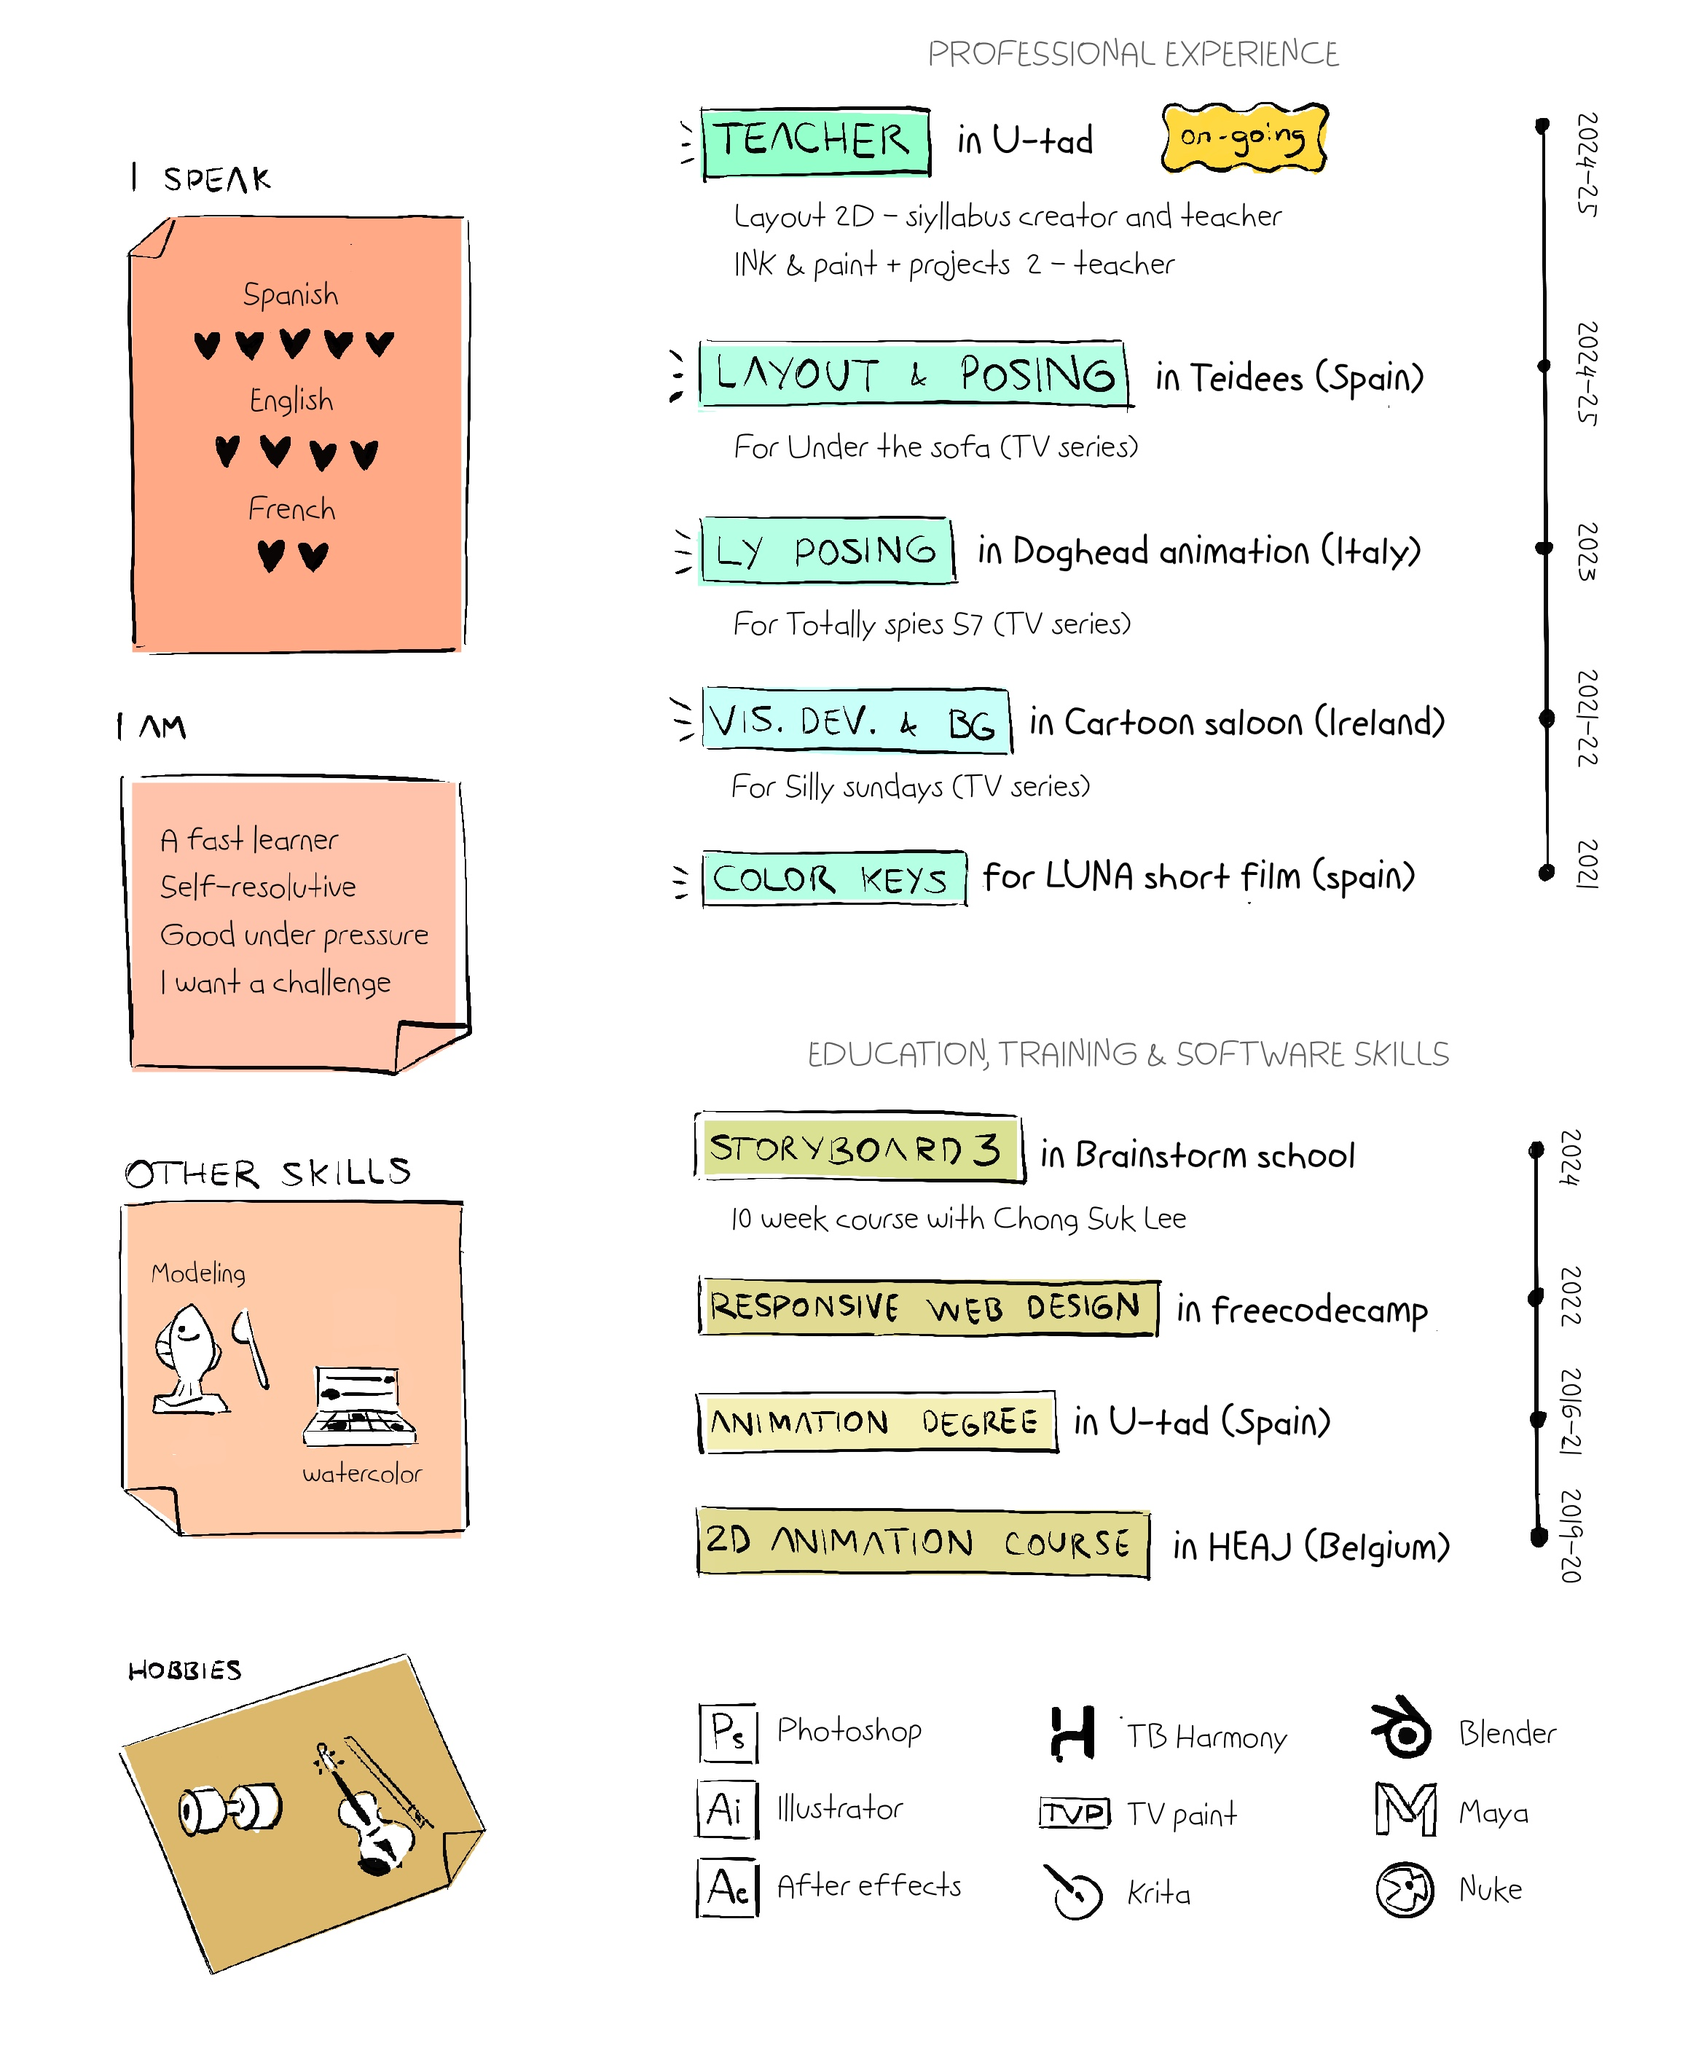
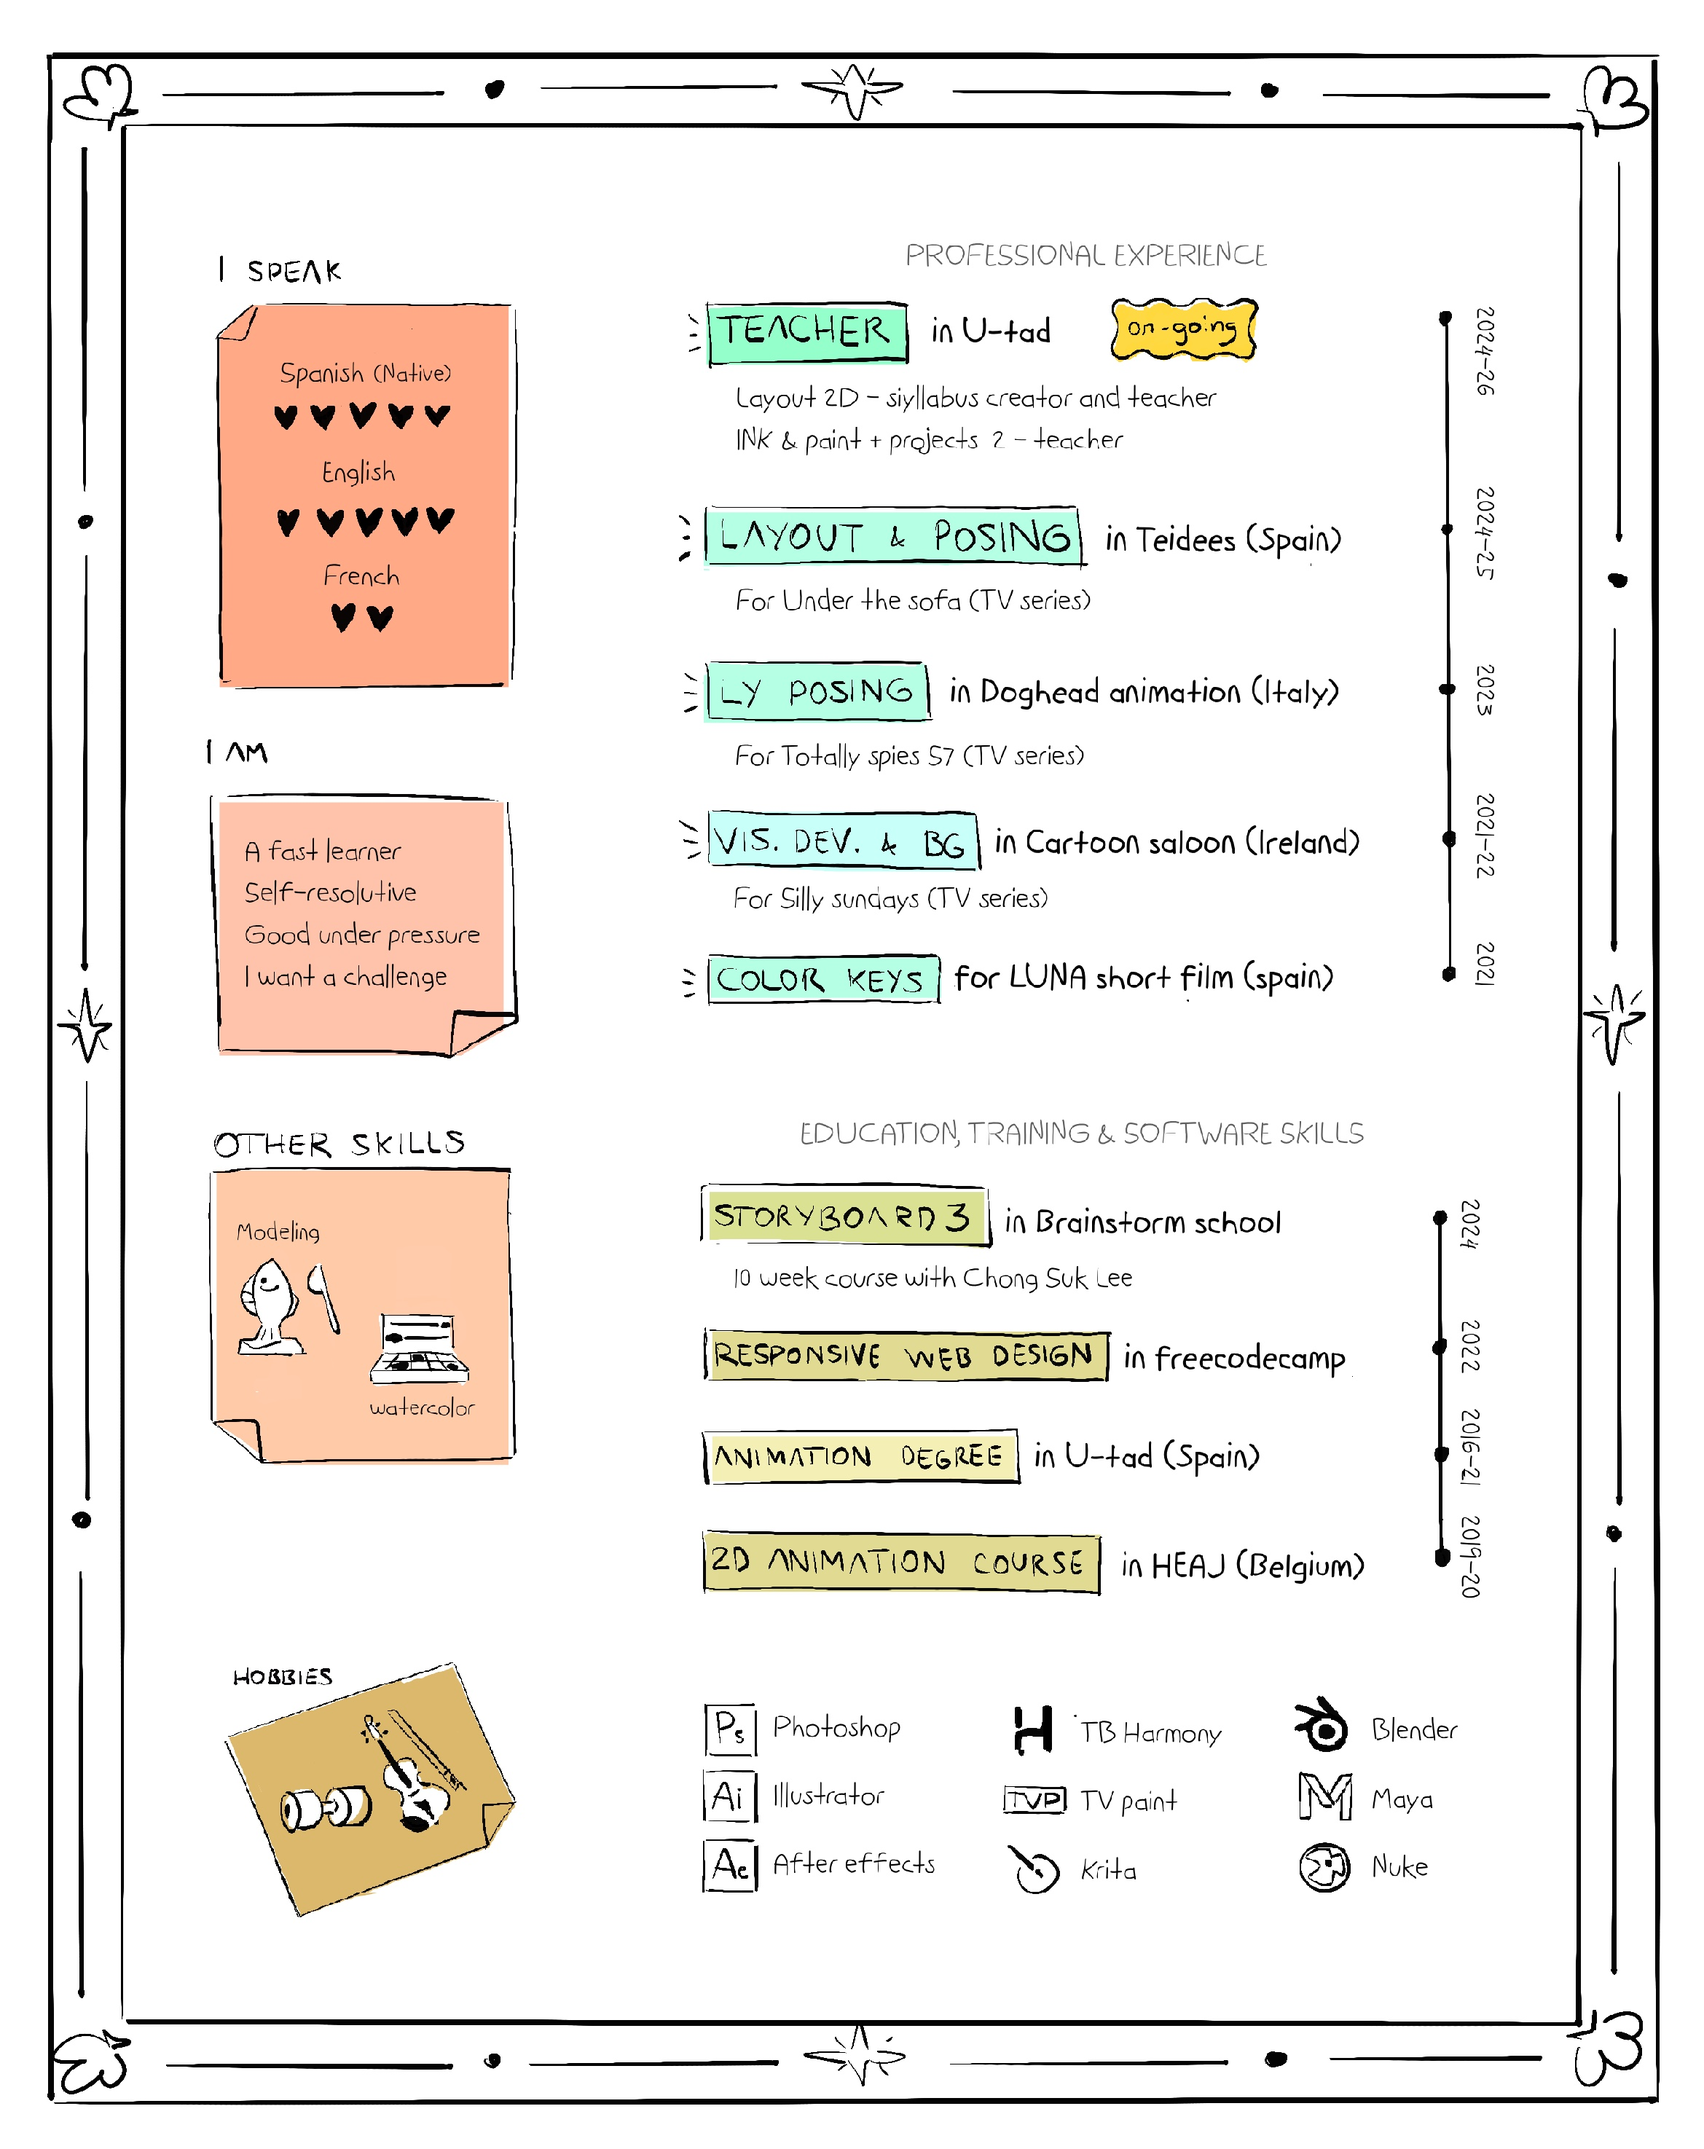
fix cv and people

diff --git a/src/styles.css b/src/styles.css
@@ -456,7 +456,7 @@ body {
 .NAVBAR {
     width: 12vw !important;
     height: auto;
-    margin: 10vh 4vw 10vh 4vw;
+    margin: 6vh 4vw 6vh 4vw;
     overflow: visible;
     display: flex;
     flex-direction: column;
@@ -576,6 +576,12 @@ body {
 
 
 
+
+
+
+
+
+
 /*PORTFOLIO LAYOUT MENUS*/
 
 .pf_img {
@@ -595,7 +601,6 @@ body {
     align-items: center;
     justify-content: center;
     margin: 30px auto 100px auto;
-    /* padding-left: 20vw; */
     margin-left: 30vw;
 
 }
@@ -632,16 +637,6 @@ body {
     font-size: 1.5vw;
     white-space: nowrap;
 }
-
-/*
-.gray {
-    filter: saturate(20%);
-    width: 10vw;
-    color: #6b6b6b;
-    font-size: 1vw;
-}
-
-+/
 
 
 
@@ -755,39 +750,21 @@ body {
     justify-content: center;
     align-items: center;
     gap: 0px;
-    max-width: 800px;
+    max-width: 900px;
     margin: auto;
     padding-left: 20vw
 }
 
 .artist_icon {
-    width: 7vw;
+    width: 18vw;
+    margin: 1vw;
     text-align: center;
-    border-radius: 50px;
-}
-
-.artist_name {
-    font-size: 1.2vw;
-    color: var(--text-color);
-    text-align: center;
-    margin: auto;
-    margin-top: 2vh;
-}
-
-.artist_type {
-    font-size: 1vw;
-    color: #4d8e35;
-    text-align: center;
-    margin-top: 1vh;
-
-}
-
-.artist_group_hover {
-    padding: 3vw;
 }
 
 .artist_group_hover:hover {
-    background-color: #f5f6e8;
+    filter: saturate(150%);
+    background-color: #e7e7df;
+
 }
 
 
@@ -800,40 +777,28 @@ body {
 
 
 .email_page_group {
-    padding-left: 20vw;
-    padding-top: 20vh;
     max-width: 800px;
-
-}
-
-.email_page_subgroup {
-    display: flex;
+    display: grid;
     align-items: center;
     justify-content: center;
     margin: auto;
-    padding-left: 20vw;
-    margin-top: -6vh;
-}
+    margin-top: 20vh;
 
-.email_text {
-    font-size: 30px;
-    margin: 15px 0 0 45px;
-    color: var(--text-color);
-    font-weight: lighter;
 }
 
 .copy_button {
+    padding-left: 20vw;
+    margin-top: -8vh;
     border: none;
     background-color: transparent;
 }
 
 .copy_icon {
-    width: 25px;
-    margin: 20px 0 0 10px;
+    width: 30vw;
 }
 
 .copy_icon:hover {
-    filter: brightness(150%);
+    background-color: #c9c9b8;
 }
 
 
@@ -856,21 +821,21 @@ body {
 
 /* FOOTER */
 .footer {
-    color: #ff5d5d;
+    color: #aaa9a7;
     font-size: 13px;
     text-align: center;
-    padding: 350px 0 100px 0;
     margin: auto;
+    margin-bottom: 4vh;
+
 }
 
 .footer_page {
-    margin-left: 20vw;
-    margin-top: -20vw;
+    margin-top: 2vh;
 }
 
 
 #profile-link {
-    color: rgb(194, 40, 58);
+    color: rgb(111, 105, 106);
     font-size: 13px;
 }
 
